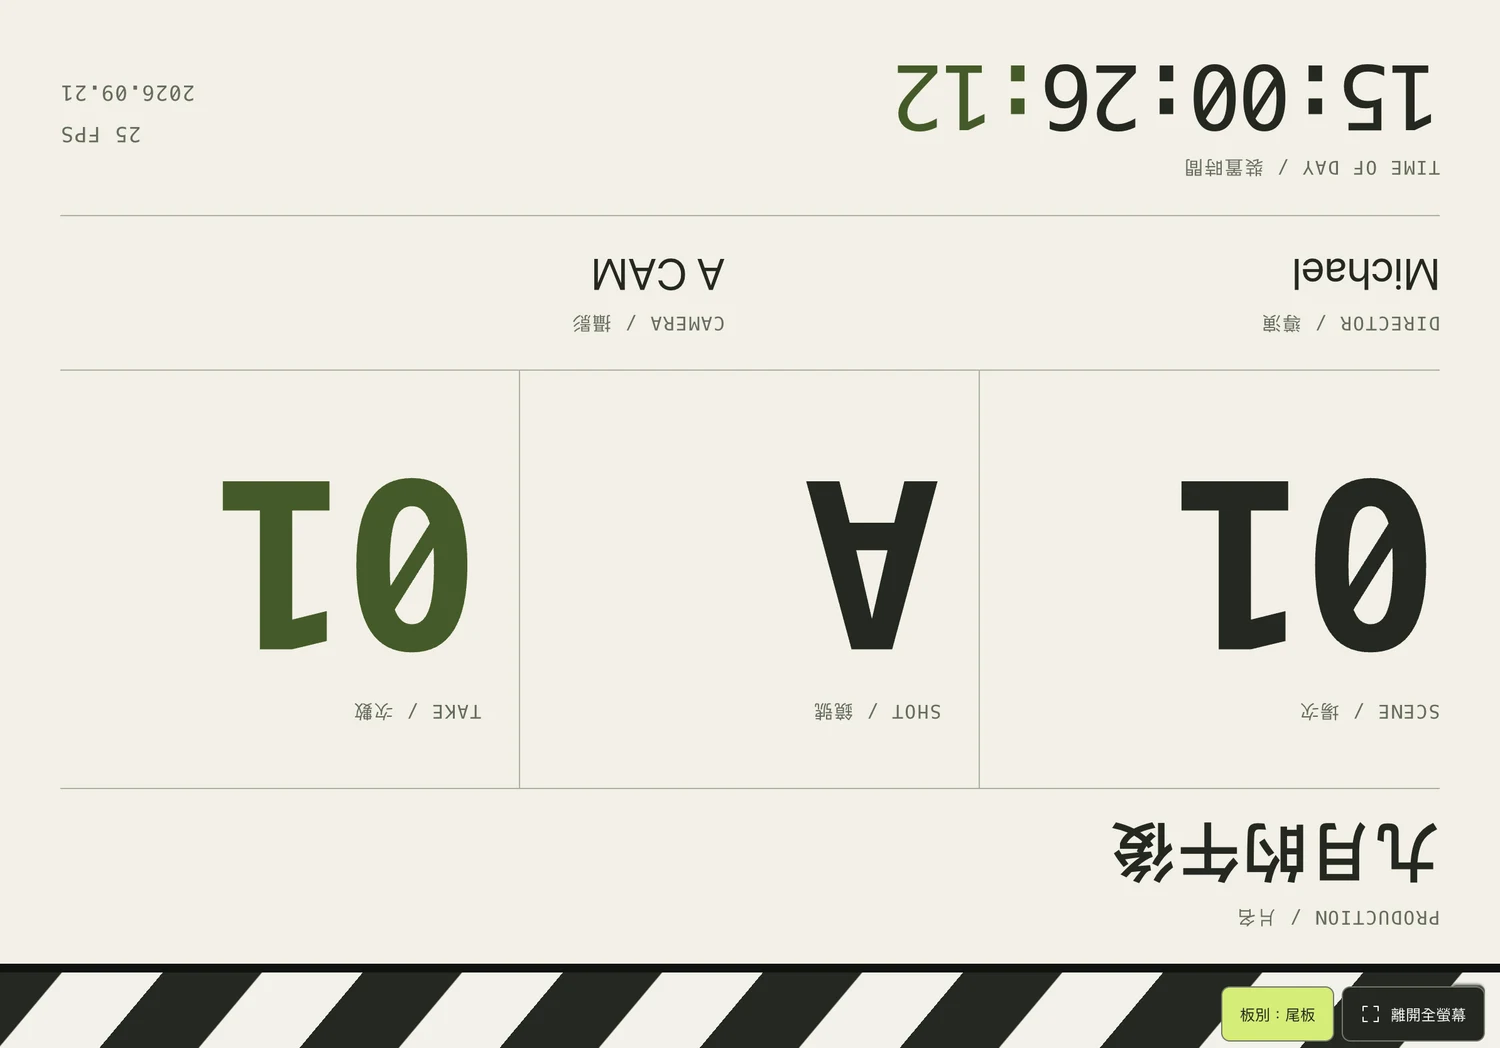
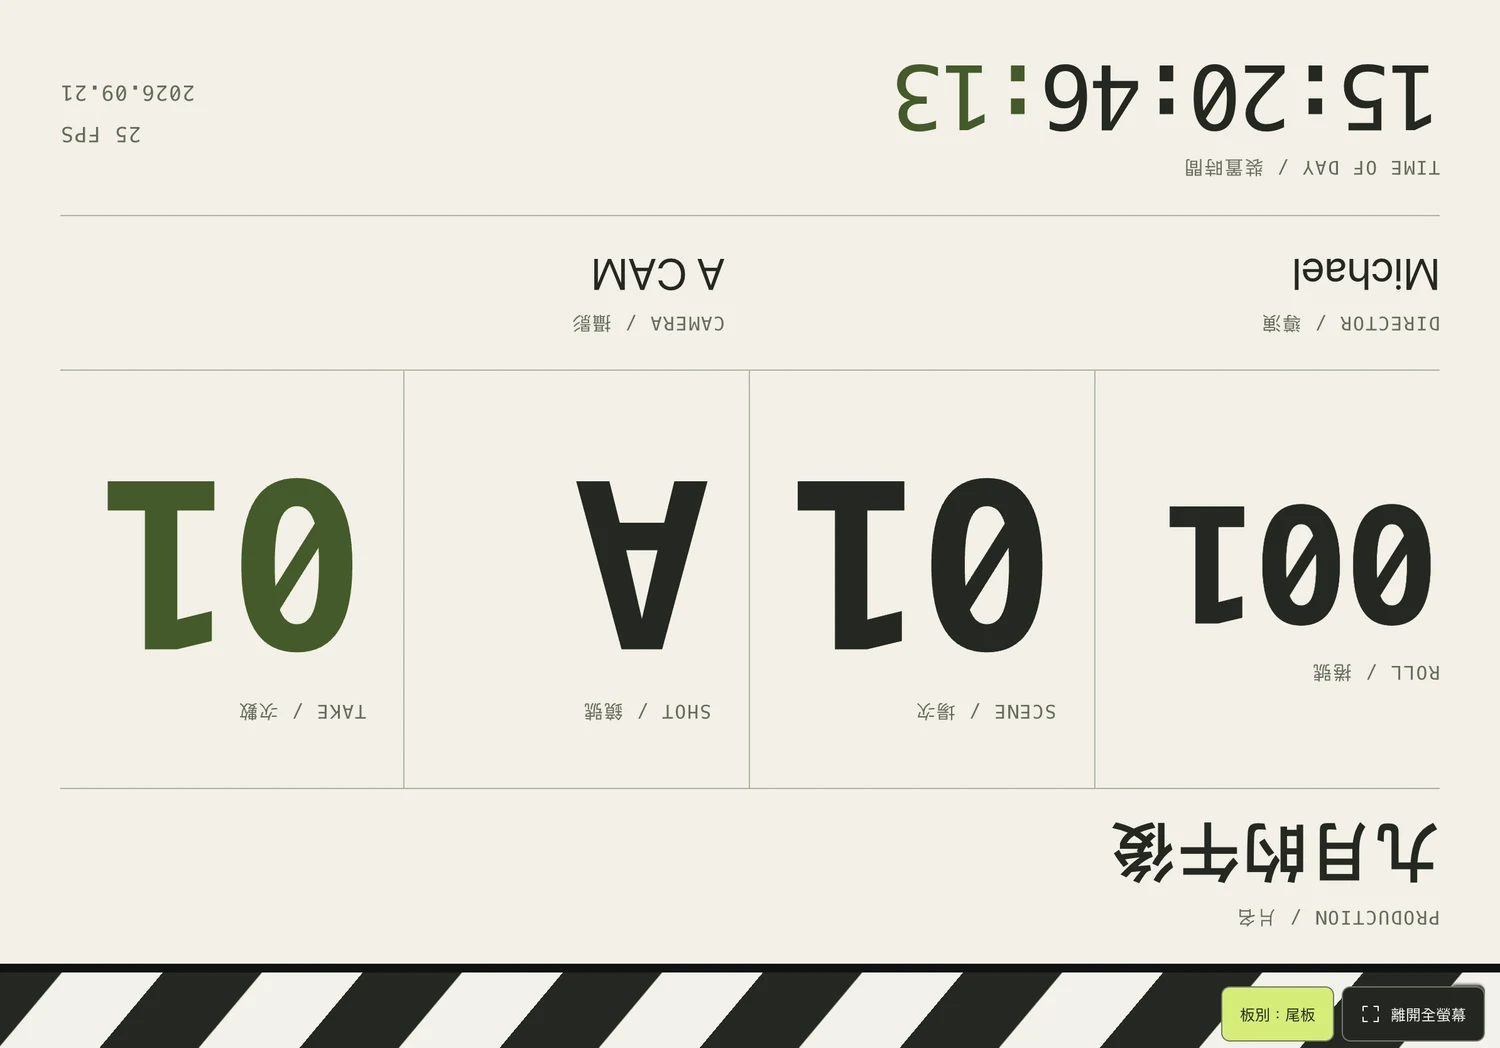
Add roll number to digital slate

diff --git a/themes/butterfly/source/sideProject/digitalSlate/index.html b/themes/butterfly/source/sideProject/digitalSlate/index.html
@@ -45,7 +45,7 @@
             <button class="clapper" id="clapper" aria-label="打板並儲存紀錄"><span class="clapper-hinge"><i></i><i></i></span><span class="clapper-caption">點此打板</span></button>
             <div class="slate-board">
               <div class="board-production"><span class="board-label">PRODUCTION / 片名</span><div id="board-production" class="production-name">未命名製作</div></div>
-              <div class="board-numbers"><div><span class="board-label">SCENE / 場次</span><strong id="board-scene">01</strong></div><div><span class="board-label">SHOT / 鏡號</span><strong id="board-shot">A</strong></div><div class="take-cell"><span class="board-label">TAKE / 次數</span><strong id="board-take">01</strong></div></div>
+              <div class="board-numbers"><div><span class="board-label">ROLL / 捲號</span><strong id="board-roll">001</strong></div><div><span class="board-label">SCENE / 場次</span><strong id="board-scene">01</strong></div><div><span class="board-label">SHOT / 鏡號</span><strong id="board-shot">A</strong></div><div class="take-cell"><span class="board-label">TAKE / 次數</span><strong id="board-take">01</strong></div></div>
               <div class="board-crew"><div><span class="board-label">DIRECTOR / 導演</span><span id="board-director">—</span></div><div><span class="board-label">CAMERA / 攝影</span><span id="board-camera">—</span></div></div>
               <div class="board-bottom"><div class="timecode-wrap"><span class="board-label">TIME OF DAY / 裝置時間</span><span class="timecode" id="timecode">00:00:00<span>:00</span></span></div><div class="board-specs"><span id="board-fps">25 FPS</span><span id="board-date"></span></div></div>
               <div id="clap-overlay" class="clap-overlay" aria-hidden="true" hidden><span id="clap-overlay-text"></span></div>
@@ -60,7 +60,7 @@
           <form id="slate-form" autocomplete="off">
             <fieldset id="slate-fields">
               <label class="field">片名 / 製作名稱<input name="production" id="production" maxlength="80" placeholder="輸入片名" aria-label="片名 / 製作名稱"></label>
-              <div class="form-row three"><label class="field">場次<input name="scene" id="scene" maxlength="12" value="01"></label><label class="field">鏡號<input name="shot" id="shot" maxlength="12" value="A"></label><label class="field">Take<input name="take" id="take" type="number" min="1" max="9999" step="1" value="1" inputmode="numeric" required></label></div>
+              <div class="form-row four"><label class="field">捲號<input name="roll" id="roll" maxlength="12" value="001"></label><label class="field">場次<input name="scene" id="scene" maxlength="12" value="01"></label><label class="field">鏡號<input name="shot" id="shot" maxlength="12" value="A"></label><label class="field">Take<input name="take" id="take" type="number" min="1" max="9999" step="1" value="1" inputmode="numeric" required></label></div>
               <div class="form-row"><label class="field">導演<input name="director" id="director" maxlength="60" placeholder="導演姓名"></label><label class="field">攝影<input name="camera" id="camera" maxlength="60" placeholder="攝影 / 機位"></label></div>
               <div class="form-row"><label class="field">影格率<select name="fps" id="fps"><option value="24">24 fps</option><option value="25" selected>25 fps</option><option value="30">30 fps</option><option value="50">50 fps</option><option value="60">60 fps</option></select></label><label class="field">打板倒數<select id="countdown"><option value="0">立即打板</option><option value="3">3 秒</option><option value="5">5 秒</option></select></label></div>
               <label class="field slate-type-field">板別<select id="isTail" name="isTail"><option value="normal">正常</option><option value="tail">尾板（旋轉 180°）</option></select></label>
@@ -86,7 +86,7 @@
         <div class="record-filters" id="record-filters" hidden><label>板別<select id="filter-slate"><option value="all">全部</option><option value="normal">正常</option><option value="tail">尾板</option></select></label><span id="filtered-count" class="muted"></span></div>
         <p id="no-matching-records" class="muted" hidden>沒有符合條件的紀錄。</p>
         <div id="empty-state" class="empty-state"><span class="empty-icon"><svg><use href="#i-slate"/></svg></span><div><h3>尚無紀錄</h3><p>打板後會顯示在這裡。</p></div></div>
-        <div id="records-table-wrap" class="records-table-wrap" hidden><table><thead><tr><th>時間</th><th>製作 / 場次 / 鏡號</th><th>TAKE</th><th>板別</th><th>評記</th><th>備註</th><th><span class="sr-only">編輯</span></th></tr></thead><tbody id="records-list"></tbody></table></div>
+        <div id="records-table-wrap" class="records-table-wrap" hidden><table><thead><tr><th>時間</th><th>製作 / 捲號 / 場次 / 鏡號</th><th>TAKE</th><th>板別</th><th>評記</th><th>備註</th><th><span class="sr-only">編輯</span></th></tr></thead><tbody id="records-list"></tbody></table></div>
       </section>
     </main>
     <footer><span>SLATE <span class="footer-slash">/</span> 數位場記板</span><span>紀錄保存在此瀏覽器，拍攝後記得匯出備份。<a href="/">Michaelpig's side projects ↗</a></span></footer>

diff --git a/themes/butterfly/source/sideProject/digitalSlate/styles.css b/themes/butterfly/source/sideProject/digitalSlate/styles.css
@@ -378,7 +378,7 @@ button[hidden],[hidden] {
 
 .board-numbers {
   display:grid;
-  grid-template-columns:1fr 1fr 1fr;
+  grid-template-columns:repeat(4,minmax(0,1fr));
   border-bottom:1px solid var(--board-line);
 }
 
@@ -621,6 +621,11 @@ input[type=number] {
 .form-row.three {
   grid-template-columns:1fr 1fr 1fr;
   gap:10px;
+}
+
+.form-row.four {
+  grid-template-columns:repeat(4,minmax(0,1fr));
+  gap:8px;
 }
 
 .notes-field {
@@ -1771,7 +1776,7 @@ body.focus-mode .board-numbers>div+div {
 }
 body.focus-mode .board-numbers strong,
 body.focus-mode .board-numbers strong.long-value {
-  font-size:min(22dvh,calc(43vw / var(--value-length,2)));
+  font-size:min(22dvh,calc(32vw / var(--value-length,2)));
   line-height:1.1;
   letter-spacing:-.035em;
   margin-top:1dvh;

diff --git a/themes/butterfly/source/sideProject/digitalSlate/sw.js b/themes/butterfly/source/sideProject/digitalSlate/sw.js
@@ -1,5 +1,5 @@
 const CACHE_PREFIX = 'michaelpig-digital-slate-';
-const CACHE_NAME = `${CACHE_PREFIX}v6`;
+const CACHE_NAME = `${CACHE_PREFIX}v7`;
 const ASSETS = ['./', './index.html', './styles.css', './app.mjs', './model.mjs', './sounds.mjs', './manifest.webmanifest', './icons/icon.svg', './icons/icon-192.png', './icons/icon-512.png', './icons/apple-touch-icon.png'];
 const assetURLs = new Set(ASSETS.map(path => new URL(path, self.registration.scope).href));
 self.addEventListener('install', event => {

diff --git a/docs/digital-slate.md b/docs/digital-slate.md
@@ -4,7 +4,7 @@
 
 ## 使用
 
-- 填入片名、場次、鏡號、Take、導演、攝影、整數 FPS 和備註。
+- 填入片名、捲號、場次、鏡號、Take、導演、攝影、整數 FPS 和備註。捲號會顯示在場號左側。
 - 點上方黑白打板條、下方打板按鈕，或在非輸入狀態按空白鍵。打板會閃白、合成短音並保存當下資訊與裝置時間。
 - 可設定立即打板、3 秒或 5 秒倒數；取消或切換到背景會取消尚未完成的倒數。
 - 自動 +1 開啟時，打板畫面保留 1.1 秒供鏡頭辨識，下一 Take 會清空備註。關閉時可手動維持 Take 編號。
